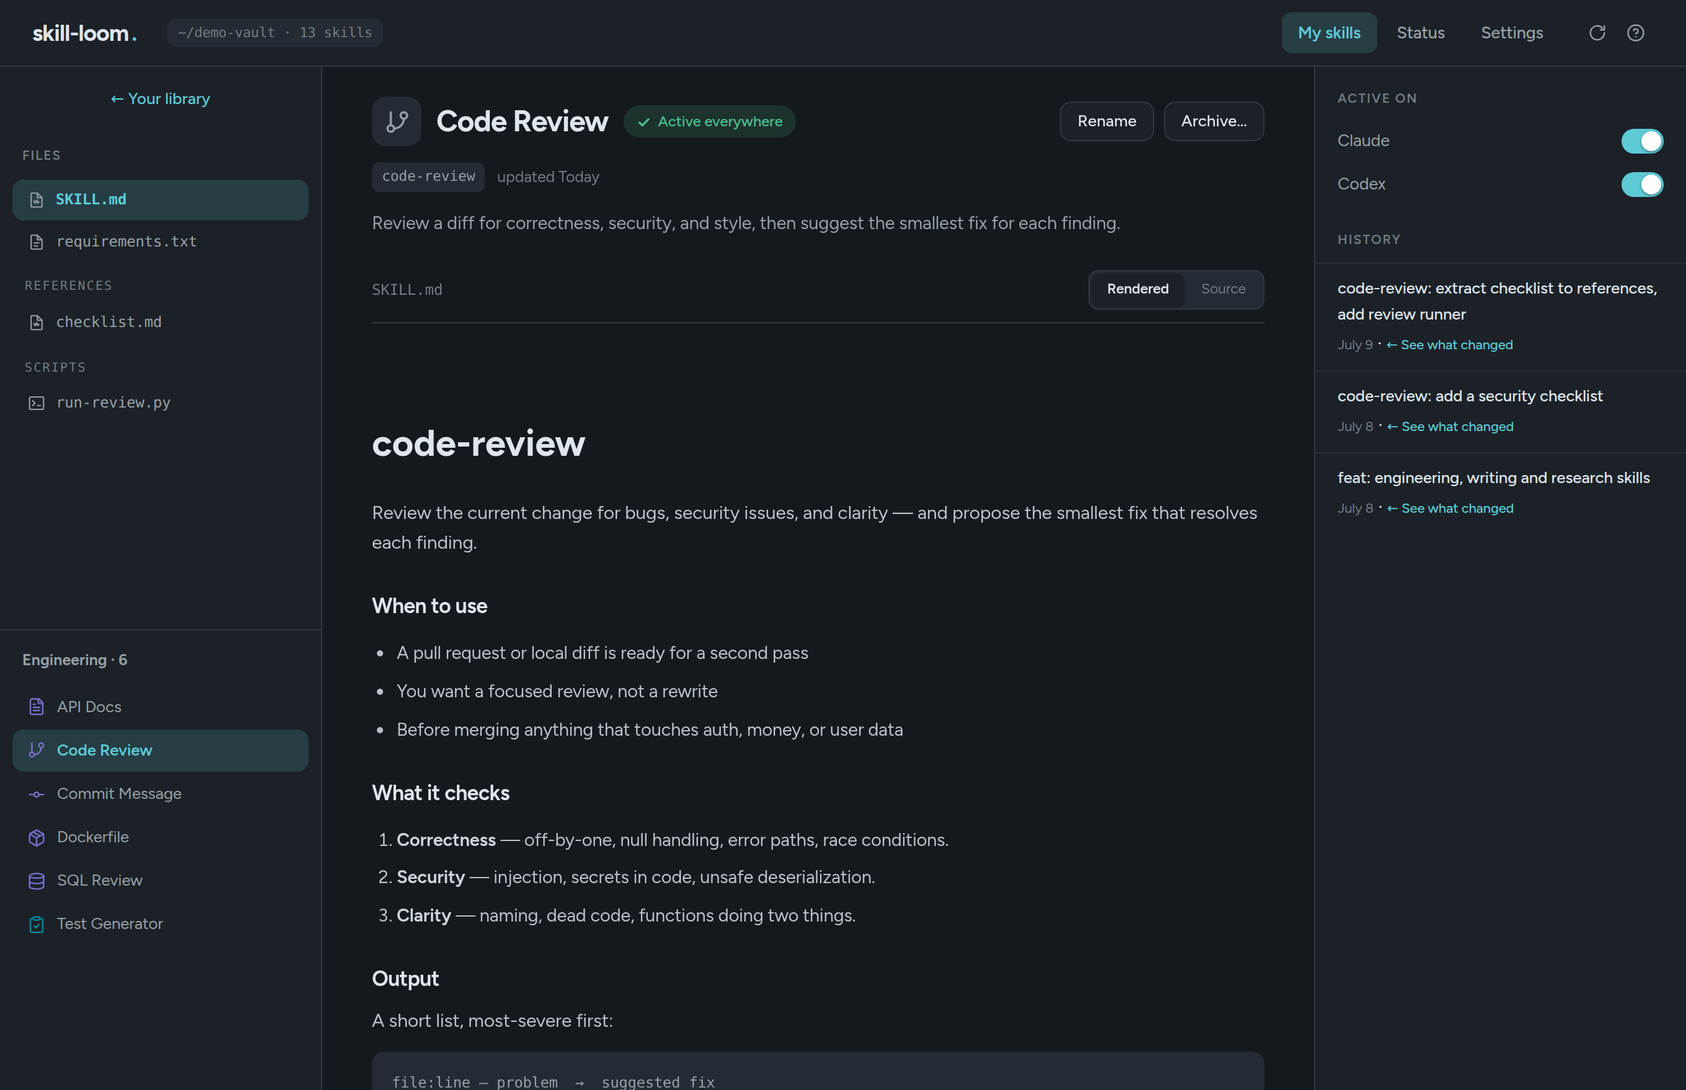
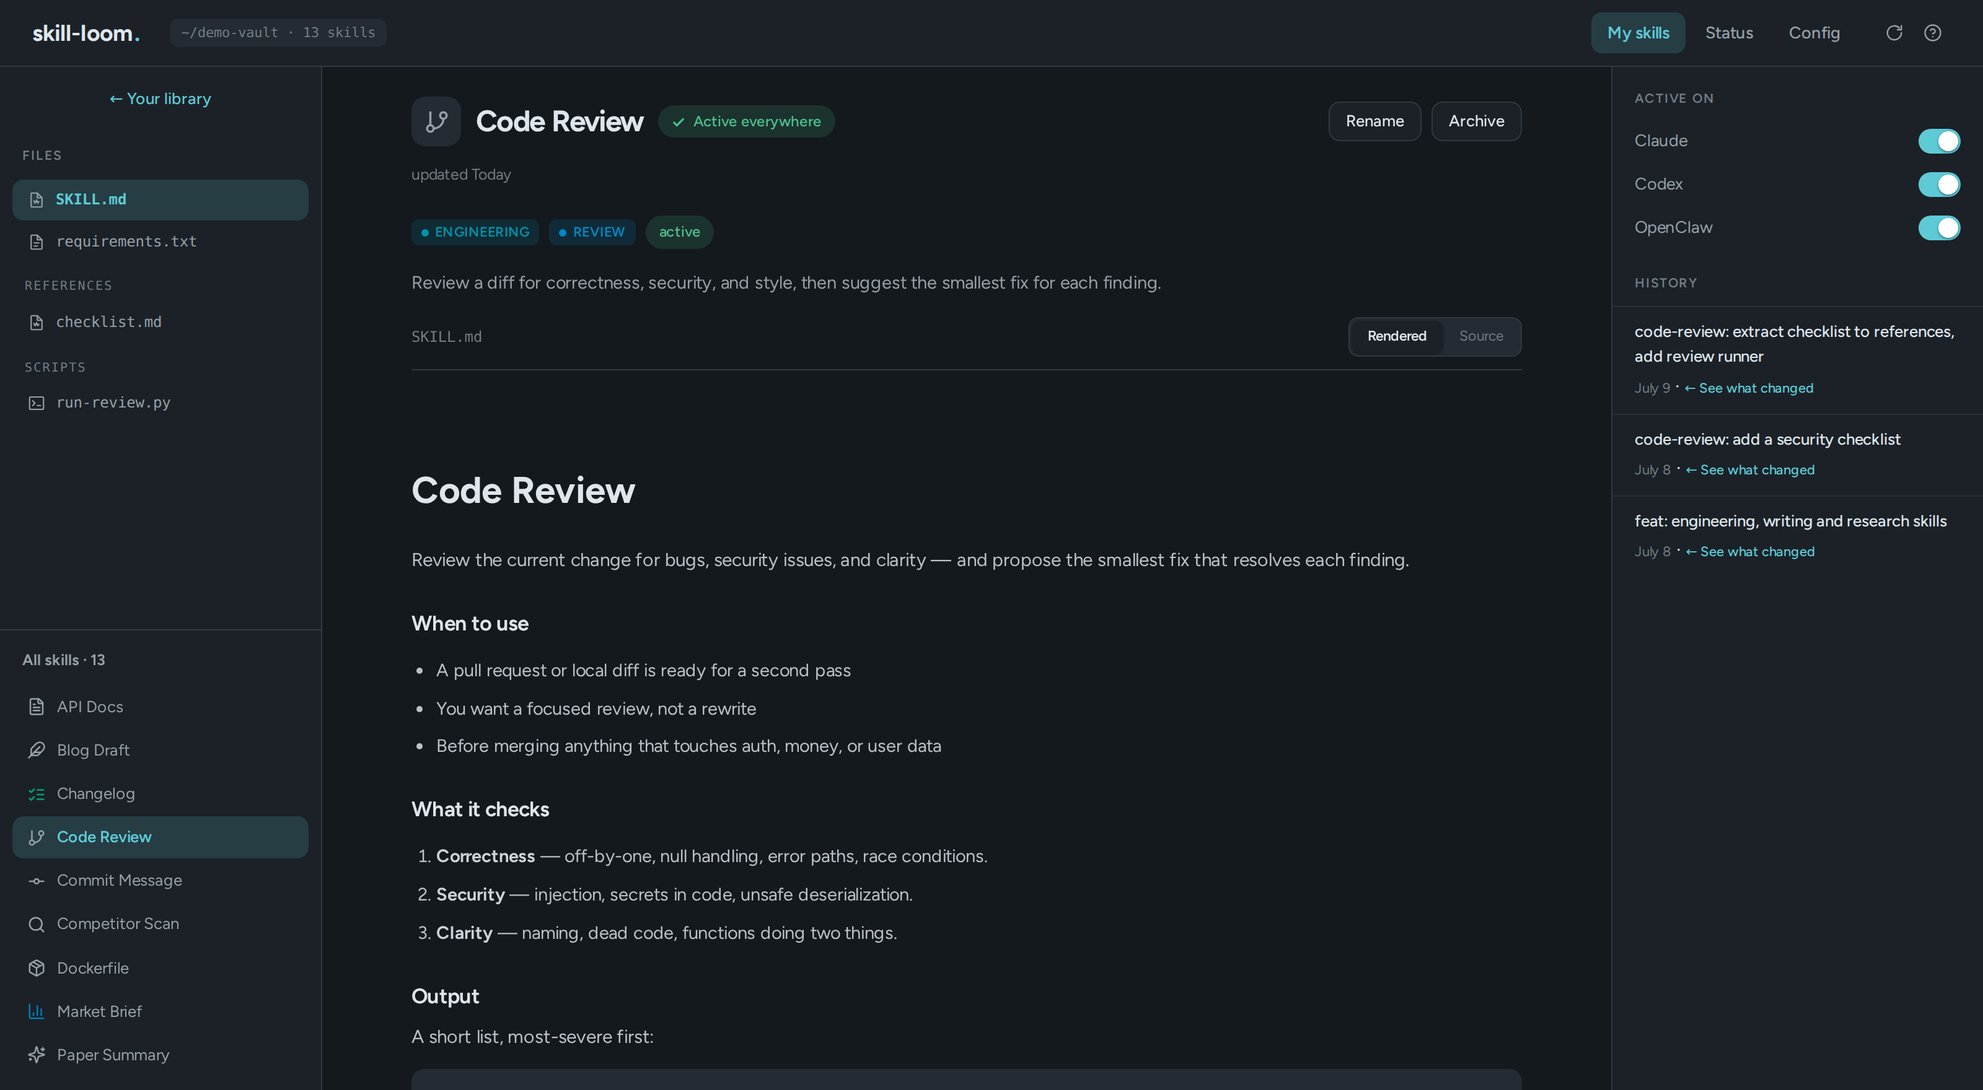
docs: rewrite README, refresh demo vault and reshoot screenshots for 0.4.0
README covers the flat taxonomy vault, the five-state lifecycle, bulk operations,
in-place consumers and the editable rules gate. The demo scaffold builds a flat
vault with a spread of lifecycle states and an in-place runtime; the dashboard
screenshots are reshot from it (shoot.mjs widened to 1600 so taxonomy chips never
truncate) and the terminal demo.gif is regenerated from the updated tape.

diff --git a/README.md b/README.md
@@ -23,38 +23,40 @@ Runs headless from the CLI, or open the built-in dashboard with `skill-loom ui`.
 ```bash
 mkdir my-skills && cd my-skills
 npx skill-loom init          # detects Claude Code / Codex, writes loom.json
-npx skill-loom add my-skill --category writing
+npx skill-loom add my-skill --domain writing
 npx skill-loom link          # dry-run: shows what would change
 npx skill-loom link --apply  # creates the symlinks
 ```
 
 ## Commands
 
-| Command                                      | What it does                                                                                                              |
-| :------------------------------------------- | :------------------------------------------------------------------------------------------------------------------------ |
-| `init`                                       | Create the vault: `loom.json` + `archive/`. Detects known runtimes.                                                       |
-| `add <name> [--category <dir>]`              | Scaffold a skill folder with a `SKILL.md`.                                                                                |
-| `link [--apply]`                             | Plan (dry-run) or apply symlinks for every skill × consumer. Never overwrites anything that is not a symlink.             |
-| `status`                                     | Matrix of skill × consumer: `linked` / `missing` / `broken` / `foreign`.                                                  |
-| `doctor`                                     | Validate names, frontmatter, duplicates, broken and orphan links. Exit 1 if problems.                                     |
-| `archive <name> [--reason <text>] [--apply]` | Move a skill to `archive/`, record why in `loom.json`, remove its links.                                                  |
-| `migrate <old> <new> [--apply]`              | Rename a skill everywhere: folder, frontmatter, links.                                                                    |
-| `ui [--port N] [--host ADDR] [--no-open]`    | Local dashboard in your browser: status grid, git changes, lifecycle actions, new-skill form. Binds 127.0.0.1 by default. |
-| `sync [--apply]`                             | Sync the vault with its git remote: auto-commit, pull --rebase, push. Dry-run by default.                                 |
+| Command                                                                         | What it does                                                                                                                                                                                          |
+| :------------------------------------------------------------------------------ | :---------------------------------------------------------------------------------------------------------------------------------------------------------------------------------------------------- |
+| `init`                                                                          | Create the vault: `loom.json` + `.archive/`, a `.gitignore`, and `git init` so the vault is its own repo. Detects known runtimes.                                                                     |
+| `add <name> [--domain <d>] [--layer <l>] [--status <s>] [--description <text>]` | Scaffold a flat skill folder with a `SKILL.md`. New skills default to `draft`.                                                                                                                        |
+| `link [--apply]`                                                                | Plan (dry-run) or apply symlinks for every active skill × consumer. Never overwrites anything that is not a symlink.                                                                                  |
+| `status`                                                                        | Matrix of skill × consumer: `linked` / `served` (in-place) / `missing` / `broken` / `foreign`.                                                                                                        |
+| `doctor`                                                                        | Validate names, frontmatter, duplicates, broken and orphan links (exit 1 if problems). Also runs hygiene checks that only warn — unless [`lint.strict`](#linting-optional) promotes them to failures. |
+| `archive <name> [--apply]`                                                      | Move a skill into `.archive/` (hidden from runtimes) and remove its links.                                                                                                                            |
+| `migrate <old> <new> [--apply]`                                                 | Rename a skill everywhere: folder, frontmatter, links.                                                                                                                                                |
+| `ui [--port N] [--host ADDR] [--no-open]`                                       | Local dashboard in your browser: library, status grid, git changes, bulk actions, editable rules. Binds `127.0.0.1`; a non-loopback `--host` needs an explicit opt-in.                                |
+| `sync [--apply]`                                                                | Sync the vault with its git remote: auto-commit, `pull --rebase`, push. Dry-run by default.                                                                                                           |
 
-`link`, `archive` and `migrate` are **dry-run by default** — nothing changes without `--apply`.
+`link`, `archive`, `migrate` and `sync` are **dry-run by default** — nothing changes without `--apply`.
 Exit codes: `0` ok · `1` problems found · `2` usage/config error (CI- and git-hook-friendly).
 
 ## The vault
 
 ```
 my-skills/
-├── loom.json            # consumers, ignore list, archive log
-├── writing/
-│   └── my-skill/
-│       └── SKILL.md     # frontmatter `name:` must equal the folder name
-└── archive/             # archived skills, excluded from linking
+├── loom.json            # consumers, ignore list, name casing, lint rules
+├── my-skill/
+│   └── SKILL.md         # frontmatter `name:` must equal the folder name
+└── .archive/            # archived skills, hidden from every runtime
 ```
+
+The vault is flat: one folder per skill, taxonomy comes from `domain`/`layer`
+frontmatter rather than nested category directories.
 
 `loom.json`:
 
@@ -66,65 +68,136 @@ my-skills/
     "codex": "~/.codex/skills"
   },
   "ignore": [".git", "node_modules", "__pycache__", ".venv"],
-  "archived": [],
   "names": { "forpros": "ForPros" }
 }
 ```
 
-Any consumer is just a name and a path — add your own runtimes freely. `init`
-pre-fills the runtimes it detects on your machine (Claude Code, Codex, Cursor,
-opencode, Gemini CLI, Amp, Windsurf, Goose, Mistral Vibe, and the shared
-`~/.agents/skills` pool); the dashboard's Settings page offers the rest as
-one-click additions. `names` overrides word casing in titles and labels
-(editable from Settings too).
+A symlink consumer is just a name and a path — add your own runtimes freely.
+`init` pre-fills the runtimes it detects on your machine (Claude Code, Codex,
+Cursor, opencode, Gemini CLI, Amp, Windsurf, Goose, Mistral Vibe, and the shared
+`~/.agents/skills` pool); the dashboard's Config page offers the rest as
+one-click additions. `names` overrides word casing in titles and labels.
+
+### In-place consumers
+
+Some runtimes don't want a symlinked directory — they read a list of skill
+directories straight from their own config. Declare those as **in-place**
+consumers: skill-loom leaves the files in the vault and just registers the vault
+path in the runtime's config array, toggled live from the dashboard.
+
+```json
+{
+  "consumers": {
+    "openclaw": {
+      "mode": "in-place",
+      "servedVia": {
+        "file": "~/.openclaw/loom.json",
+        "jsonPath": "skills.load.extraDirs"
+      }
+    }
+  }
+}
+```
 
 ## SKILL.md frontmatter
 
 The dashboard is driven by a few optional frontmatter fields — use your own
 vocabulary, every value gets a stable color automatically:
 
-| Field         | Required | What it does                                                                                                  |
-| ------------- | -------- | ------------------------------------------------------------------------------------------------------------- |
-| `name`        | yes      | Must equal the folder name (`doctor` checks it).                                                              |
-| `description` | no       | Shown on cards and in the table; it is also what your agents read to decide when to use the skill.            |
-| `domain`      | no       | Who the skill belongs to (a brand, a project, `cross`). Groups the library and feeds the sidebar filter.      |
-| `layer`       | no       | What kind of work it does (e.g. `tool`, `review`, `authoring`). The orthogonal axis: chips, grouping, filter. |
-| `status`      | no       | Lifecycle: `active` (default) or `suspended` (parked but visible). Archiving is a separate skill-loom action. |
-| `icon`        | no       | A line-icon name for the skill tile (NotePlan-style).                                                         |
-| `icon-color`  | no       | A Tailwind-ish token (e.g. `teal-500`) overriding the tile hue.                                               |
+| Field         | Required | What it does                                                                                                                                          |
+| ------------- | -------- | ----------------------------------------------------------------------------------------------------------------------------------------------------- |
+| `name`        | yes      | Must equal the folder name (`doctor` checks it).                                                                                                      |
+| `description` | no       | Shown on cards and in the table; it is also what your agents read to decide when to use the skill.                                                    |
+| `domain`      | no       | Who the skill belongs to (a brand, a project, `cross`). Groups the library and feeds the sidebar filter.                                              |
+| `layer`       | no       | What kind of work it does (e.g. `tool`, `review`, `authoring`). The orthogonal axis: chips, grouping, filter.                                         |
+| `status`      | no       | Lifecycle: `idea` / `draft` / `active` / `suspended` / `deprecated`. Absent is treated as `active`; only active skills are linked and strictly gated. |
+| `icon`        | no       | A line-icon name for the skill tile (NotePlan-style).                                                                                                 |
+| `icon-color`  | no       | A Tailwind-ish token (e.g. `teal-500`) overriding the tile hue.                                                                                       |
 
 Skills without `domain`/`layer` land in an "Other" group — everything keeps
 working, the taxonomy only adds structure.
+
+## Linting (optional)
+
+`doctor` always runs two built-in hygiene checks — an H1 that drifts from the
+skill name, and machine-specific absolute paths (`/home/…`, `/Users/…`) in a
+guide — as **warnings** that never fail the exit code. An optional `lint` block
+in `loom.json` adds content checks and can turn every finding into a failure,
+so a vault can enforce its own conventions in CI or a pre-commit hook. Edit it by
+hand, or from the dashboard's Config → Rules console with a live impact preview:
+
+```json
+{
+  "lint": {
+    "strict": false,
+    "descriptionMinChars": 250,
+    "descriptionMaxChars": 400,
+    "bodyMaxLines": 120,
+    "forbidBodyPatterns": ["\\b\\d{1,3}(?:\\.\\d{1,3}){3}\\b"],
+    "requireSections": ["Policy"],
+    "requireTaxonomy": ["domain", "layer"],
+    "allowedDomains": ["my-brand", "cross"],
+    "allowedLayers": ["tool", "engine", "review"]
+  }
+}
+```
+
+Every field is opt-in — an absent block leaves only the two built-in warnings.
+With `strict: true`, findings on active skills print in red and `doctor` exits 1;
+non-active skills stay advisory. `requireSections` matches a heading whose text
+starts with the given title (so `## Policy (use / do-not-use)` satisfies
+`"Policy"`).
+
+`descriptionMinChars` flags descriptions shorter than the floor (pair it with
+`descriptionMaxChars` for a range). `forbidBodyPatterns` is a list of regular
+expressions; a body matching any of them is flagged — use it for machine
+addresses the two built-in path checks miss, e.g. IPs or hostnames. A skill can
+opt out of one finding by declaring a waiver in its frontmatter, when the
+content is essential — `length-waiver` exempts `bodyMaxLines` (an inseparable
+runbook), `forbid-waiver` exempts `forbidBodyPatterns` (e.g. documented internal
+topology that is the skill's substance):
+
+    metadata:
+      lint:
+        length-waiver:
+          reason: "Operational runbook — inseparable without harming the flow."
+        forbid-waiver:
+          reason: "Internal network topology is the runbook's essence."
 
 ## Dashboard
 
 Prefer buttons over flags? `skill-loom ui` starts a local dashboard — a single
 self-contained page, no external dependencies, nothing leaves your machine.
 
-![skill-loom dashboard — your skill library, grouped and colour-coded by category](docs/dashboard-library.png)
+![skill-loom dashboard — your skill library, grouped and colour-coded](docs/dashboard-library.png)
 
 - **My skills** — your library as a sortable table (or a card grid, <kbd>g</kbd>
   toggles), grouped by `domain` or `layer` with per-value colors and chips. The
   sidebar filters by domain, layer, lifecycle status, link state and git sync
   state, composing with full-text search. Each row answers the operational
-  questions at a glance: lifecycle (`active` / `suspended`), links (`linked` /
-  `partial` / `not linked` / `conflict`) and sync (`synced` / `to commit` /
-  `to push` / `to pull`). On open, a live check against your git remote offers
-  push/pull when the vault is out of sync.
+  questions at a glance: lifecycle, links (`linked` / `partial` / `not linked` /
+  `conflict`) and sync (`synced` / `to commit` / `to push` / `to pull`).
+  **Select many** (checkbox, Cmd-click, Shift-range) and a right-click menu runs
+  bulk actions — set status or taxonomy, archive, restore, pattern-rename — each
+  previewed as a dry-run before it writes.
 - **Skill page** — a three-pane view: files on the left, the guide rendered as a
-  clean document (with syntax highlighting in the source view) in the centre, and
-  runtime toggles + git history on the right. "See what changed" opens the commit
-  diff in place.
-- **Health** — problems explained in plain sentences, one-click "Fix links", and
-  sync status across your machines.
-- **Recent changes** — what your agents edited since the last save, ready to
-  review and push.
+  clean document (frontmatter as taxonomy chips and a metadata card; syntax
+  highlighting in the source view) in the centre, and runtime toggles + git
+  history on the right. In-place consumers activate/deactivate right there.
+- **Config** — a settings console: browse the vault's governance docs with their
+  history, add runtimes, edit name casing, and tune the `lint` rules gate with a
+  live preview of which skills a change would newly flag or clear.
+- **Health & recent changes** — problems explained in plain sentences, one-click
+  "Fix links", sync status across machines, and what your agents edited since the
+  last save, ready to review and push.
 
 ![skill-loom — skill page with files, rendered guide and git history](docs/dashboard-detail.png)
 
 Press <kbd>?</kbd> anywhere for the keyboard-shortcut map. Every write action
 shows the dry-run plan before confirming — same semantics as the CLI, same
-guarantee: nothing that is not a symlink is ever touched.
+guarantee: nothing that is not a symlink is ever touched. The dashboard binds to
+`127.0.0.1` only; its write endpoints have no authentication, so exposing it on a
+non-loopback address takes a deliberate extra flag.
 
 ## Use it on more than one machine
 
@@ -132,7 +205,7 @@ The vault is a git repository, so syncing is just a private remote:
 
 ```bash
 # machine A (where the vault lives)
-cd my-skills && git init && git remote add origin git@github.com:you/skills-vault.git
+cd my-skills && git remote add origin git@github.com:you/skills-vault.git
 skill-loom sync --apply
 
 # machine B

diff --git a/DESIGN.md b/DESIGN.md
@@ -39,23 +39,23 @@ harmonized with the accent into one temperature family.
 Semantic hue families (ok=green, warn=amber, err=red) are reserved for state;
 the accent stays out of them. Soft variants = same hue at ~10-16% alpha.
 
-**Category accents** (library scan): each category carries a hue on the
-skill-tile fill + section legend dot, so the grid scans by category at a glance
-without touching data. The hue is derived from the category name (`catStyle` in
-JS: a stable hash into an 8-hue palette) so any vault's categories get colour —
-the palette stays clear of the state bands (green 160 / amber 68 / red 25).
-Tokens `--cat` / `--cat-soft` are set inline per section; a fixed mid-lightness
-that reads on both themes (like the per-skill `icon-color` overrides). The state
-badge on a card shows only when health deviates (attention/inactive); an active
-skill shows no badge, so exceptions are the only cards that light up.
+**Taxonomy accents** (library scan): each domain/layer value carries a hue on the
+section legend dot + group chip, so the grid scans by taxonomy at a glance without
+touching data. The hue is rank-based over the axis's sorted values (`taxHueStyle`
+in JS: 8-hue palette `TAX_HUES`, stride-3 so adjacent values sit far apart on the
+wheel) — the palette stays clear of the state bands (green 160 / amber 68 /
+red 25). Tokens `--tint` / `--tint-soft` carry it, at a fixed mid-lightness that
+reads on both themes. The state badge on a card shows only when health deviates
+(attention/inactive); an active skill shows no badge, so exceptions are the only
+cards that light up.
 
 **Skill tiles** (NotePlan model): each card/detail header carries a rounded tile.
 Frontmatter `icon: <name>` picks a line-icon from an inline Lucide-style registry
 (`ICONS` in `ui.html`); no `icon:` falls back to the skill's monogram. Optional
-`icon-color: <family>-<step>` (Tailwind-ish token, e.g. `emerald-500`) overrides
-the tile hue for that one skill via `namedColor()` → fixed OKLCH (theme-independent,
-like NotePlan); absent, the tile inherits its category accent. So category color is
-the default scan signal and per-skill icon+color is opt-in personality.
+`icon-color: <family>-<step>` (Tailwind-ish token, e.g. `emerald-500`) sets the
+tile hue for that one skill via `namedColor()` → fixed OKLCH (theme-independent,
+like NotePlan); absent, the tile stays neutral. The vault is flat (no categories),
+so tile colour is opt-in per skill, not derived from a folder.
 
 ## Typography
 
@@ -66,10 +66,13 @@ identifiers, paths, hashes, code.
 
 ## Layout
 
-Two nav destinations: **My skills** (full-width category card grid) and **Status**
-(the merged housekeeping surface: unsaved changes + sync + link health). Sub-views:
-**Skill detail** is a full-bleed three-pane (files · document · runtimes+history);
-**New skill**, **Settings**, **Archived** are focused/bounded. Scrolling views vs
+Nav destinations: **My skills** (full-width category card grid), **Status** (the
+merged housekeeping surface: unsaved changes + sync + link health), and **Config**.
+Config is a settings console: a left rail of sections (Rules, Vault, Runtimes,
+Naming, Sync) plus read-only Reference (CONVENTIONS.md, source-registry.yaml,
+loom.json), with the selected section in the right pane. Sub-views: **Skill
+detail** is a full-bleed three-pane (files · document · runtimes+history); **New
+skill** and **Archived** are focused/bounded. Scrolling views vs
 full-bleed fixed views (`body.fixed` for detail + status). Space is partitioned into
 regions (main + rail) rather than left-stacked — no dead width.
 

diff --git a/demo/README.md b/demo/README.md
@@ -13,11 +13,15 @@ two scripts that reproduce it, so the screenshots stay regenerable on any clone.
 node demo/scaffold-demo.mjs
 ```
 
-This writes `demo/demo-vault/` with all 13 skills, a 3-commit git history (so the
-detail page's History panel is populated), and links every skill into a `claude`
-and `codex` runtime (so the "Active on" toggles read as on). `code-review` is the
-one multi-file skill — it carries the grouped file-panel demo (`SKILL.md` +
-`requirements.txt` at the root, `references/checklist.md`, `scripts/run-review.py`).
+This writes a flat `demo/demo-vault/` (one folder per skill) with all 13 skills, a
+3-commit git history (so the detail page's History panel is populated), a spread
+of lifecycle states across the five chips (idea / draft / active / suspended /
+deprecated), and three runtimes: `claude` and `codex` as symlink consumers, plus
+an in-place `openclaw` that reads the vault straight from its own config (so the
+detail page shows the in-place toggle). Active skills link into all three;
+non-active ones stay unprojected. `code-review` is the one multi-file skill — it
+carries the grouped file-panel demo (`SKILL.md` + `requirements.txt` at the root,
+`references/checklist.md`, `scripts/run-review.py`).
 
 ## Serve it
 
